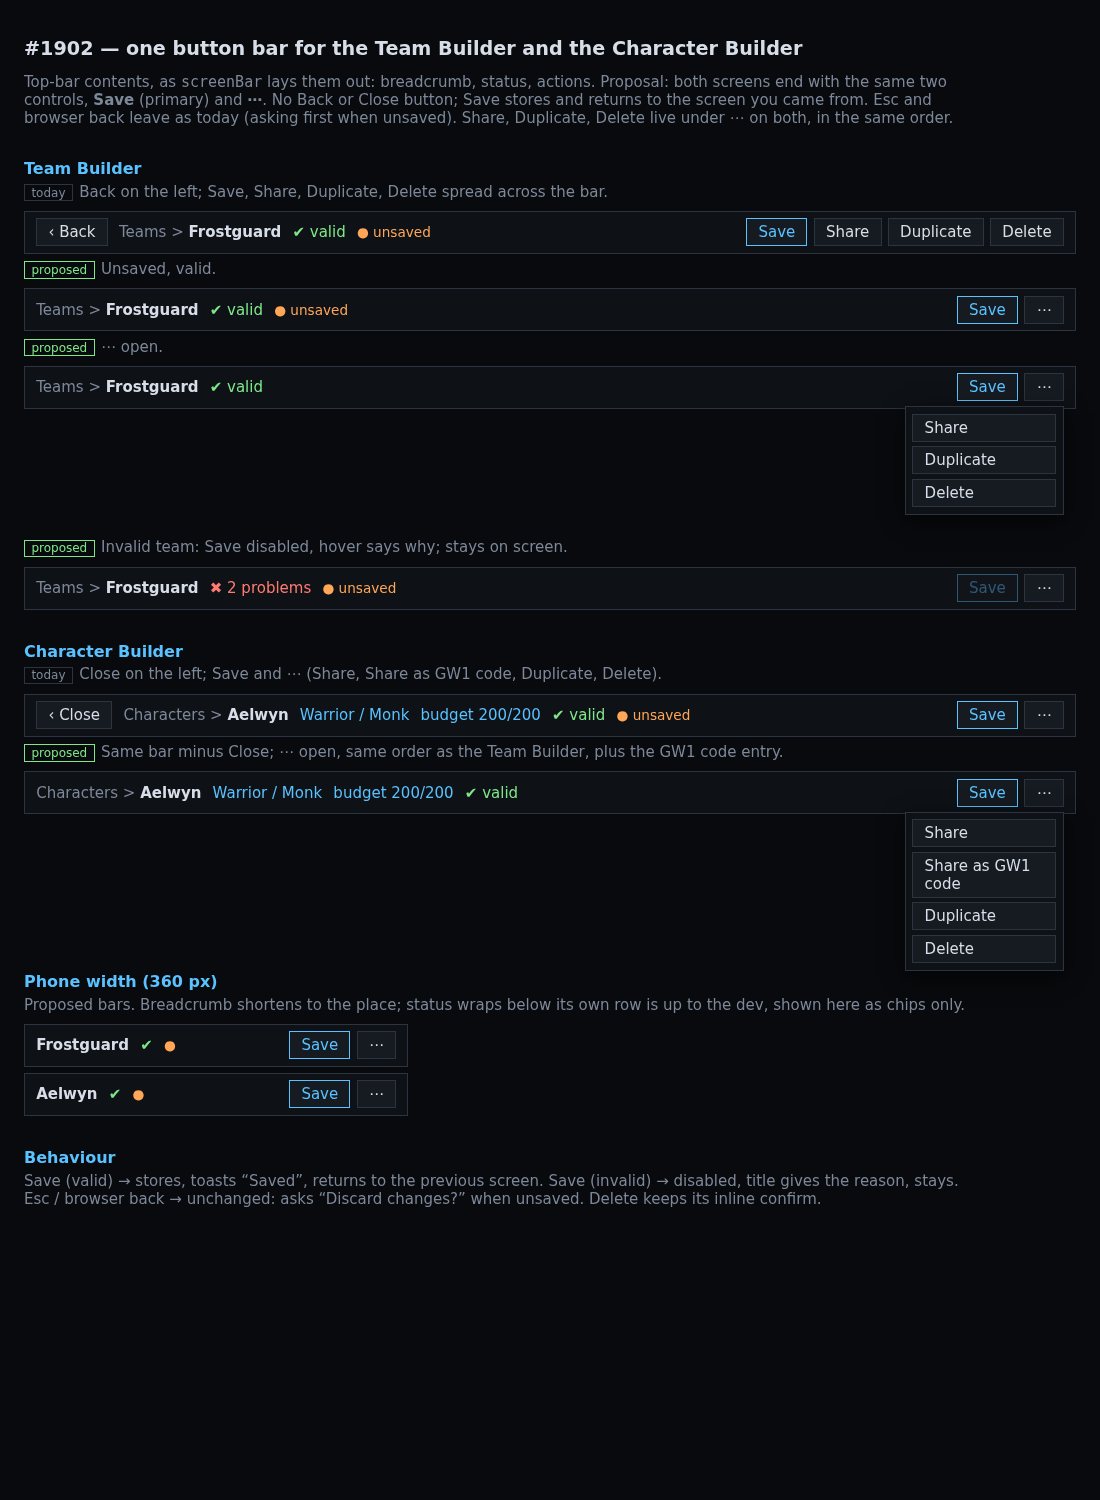
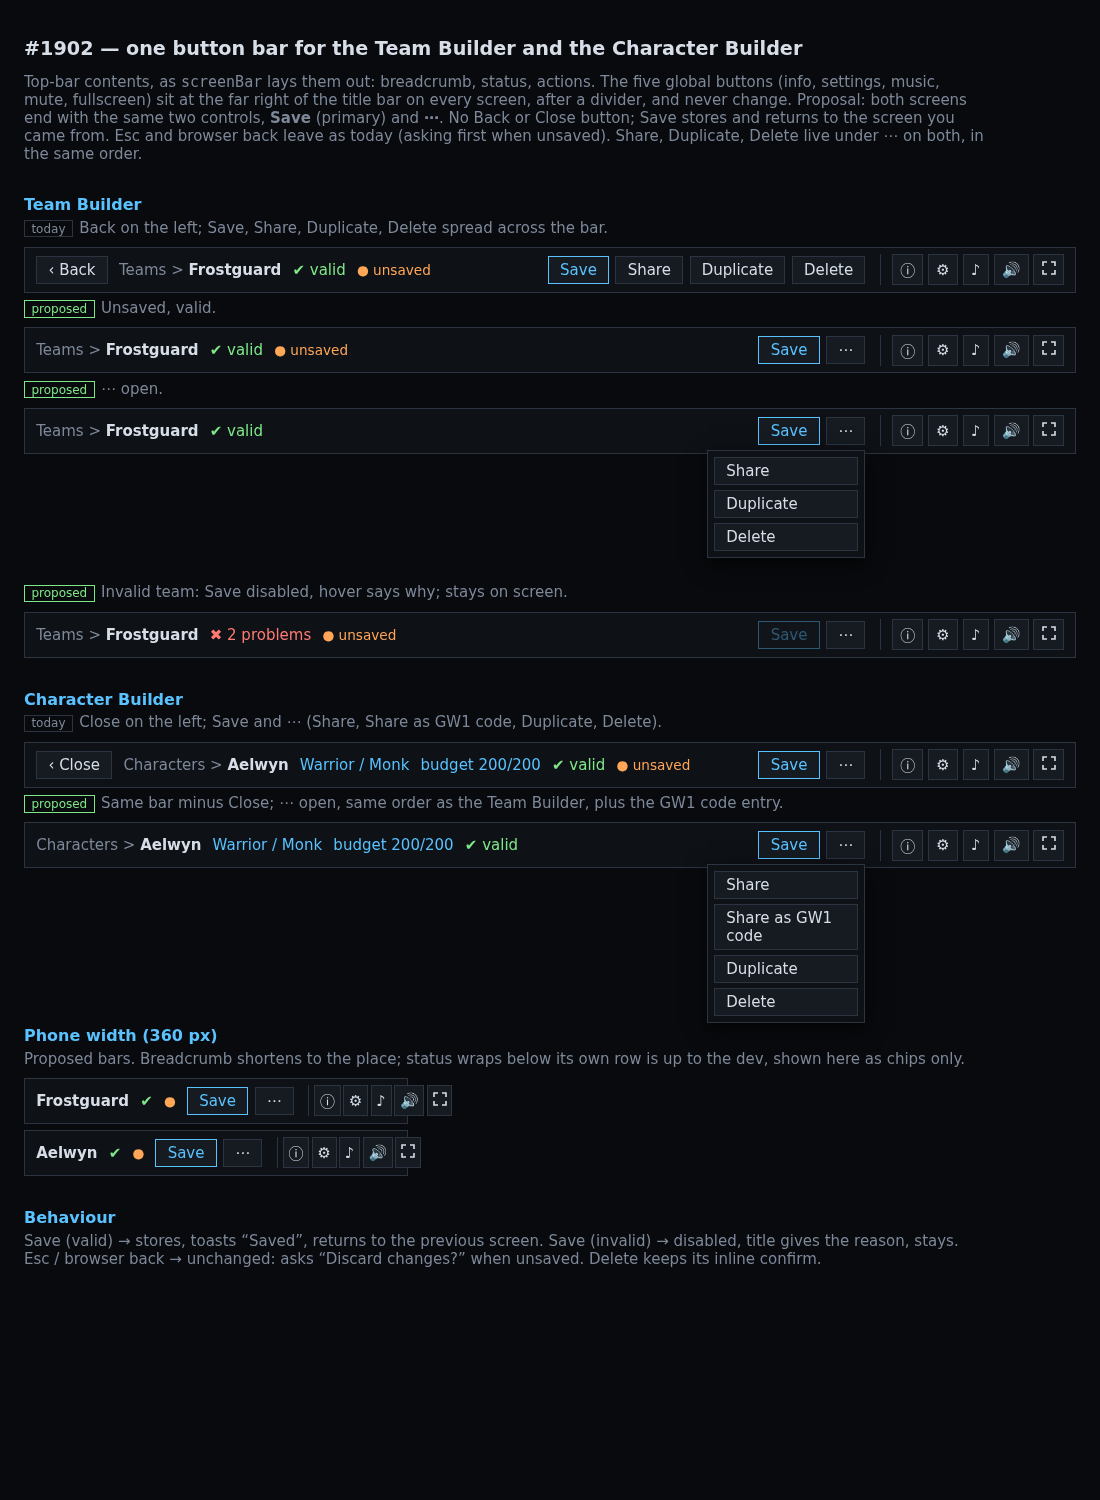
#1902: mockup adds the global info/settings/music/mute/fullscreen buttons

diff --git a/docs/mockups/1902-button-bars.html b/docs/mockups/1902-button-bars.html
@@ -138,13 +138,32 @@
     text-decoration: line-through;
     opacity: 0.55;
   }
+  .glob {
+    display: flex;
+    gap: 0.3rem;
+    padding-left: 0.7rem;
+    margin-left: 0.2rem;
+    border-left: 1px solid var(--line);
+  }
+  .glob button {
+    padding: 0.25rem 0.45rem;
+  }
+  .bar.phone .glob button {
+    padding: 0.25rem 0.3rem;
+  }
+  .bar.phone .glob {
+    gap: 0.15rem;
+    padding-left: 0.3rem;
+  }
 </style>
 <h1>#1902 — one button bar for the Team Builder and the Character Builder</h1>
 <p class="n">
-  Top-bar contents, as <code>screenBar</code> lays them out: breadcrumb, status, actions. Proposal:
-  both screens end with the same two controls, <b>Save</b> (primary) and <b>⋯</b>. No Back or Close
-  button; Save stores and returns to the screen you came from. Esc and browser back leave as today
-  (asking first when unsaved). Share, Duplicate, Delete live under ⋯ on both, in the same order.
+  Top-bar contents, as <code>screenBar</code> lays them out: breadcrumb, status, actions. The five
+  global buttons (info, settings, music, mute, fullscreen) sit at the far right of the title bar on
+  every screen, after a divider, and never change. Proposal: both screens end with the same two
+  controls, <b>Save</b> (primary) and <b>⋯</b>. No Back or Close button; Save stores and returns to
+  the screen you came from. Esc and browser back leave as today (asking first when unsaved). Share,
+  Duplicate, Delete live under ⋯ on both, in the same order.
 </p>
 
 <h2>Team Builder</h2>
@@ -159,12 +178,42 @@
     ><button class="primary">Save</button><button>Share</button><button>Duplicate</button
     ><button>Delete</button></span
   >
+  <span class="glob"
+    ><button aria-label="info">ⓘ</button><button aria-label="settings">⚙</button
+    ><button aria-label="music">♪</button><button aria-label="mute">🔊</button
+    ><button aria-label="fullscreen">
+      <svg
+        width="14"
+        height="14"
+        viewBox="0 0 14 14"
+        fill="none"
+        stroke="currentColor"
+        stroke-width="1.6"
+      >
+        <path d="M1 5V1h4M9 1h4v4M13 9v4H9M5 13H1V9" />
+      </svg></button
+  ></span>
 </div>
 <p class="n"><span class="tag new">proposed</span>Unsaved, valid.</p>
 <div class="bar">
   <span class="crumb">Teams &gt; <b>Frostguard</b></span>
   <span class="status"><span class="chip">✔ valid</span><span class="uns">● unsaved</span></span>
   <span class="act"><button class="primary">Save</button><button>⋯</button></span>
+  <span class="glob"
+    ><button aria-label="info">ⓘ</button><button aria-label="settings">⚙</button
+    ><button aria-label="music">♪</button><button aria-label="mute">🔊</button
+    ><button aria-label="fullscreen">
+      <svg
+        width="14"
+        height="14"
+        viewBox="0 0 14 14"
+        fill="none"
+        stroke="currentColor"
+        stroke-width="1.6"
+      >
+        <path d="M1 5V1h4M9 1h4v4M13 9v4H9M5 13H1V9" />
+      </svg></button
+  ></span>
 </div>
 <p class="n"><span class="tag new">proposed</span>⋯ open.</p>
 <div class="bar">
@@ -176,6 +225,21 @@
       ><button>Share</button><button>Duplicate</button><button>Delete</button></span
     ></span
   >
+  <span class="glob"
+    ><button aria-label="info">ⓘ</button><button aria-label="settings">⚙</button
+    ><button aria-label="music">♪</button><button aria-label="mute">🔊</button
+    ><button aria-label="fullscreen">
+      <svg
+        width="14"
+        height="14"
+        viewBox="0 0 14 14"
+        fill="none"
+        stroke="currentColor"
+        stroke-width="1.6"
+      >
+        <path d="M1 5V1h4M9 1h4v4M13 9v4H9M5 13H1V9" />
+      </svg></button
+  ></span>
 </div>
 <div class="pad"></div>
 <p class="n">
@@ -190,6 +254,21 @@
     ><button class="primary" disabled title="Two members share a name">Save</button
     ><button>⋯</button></span
   >
+  <span class="glob"
+    ><button aria-label="info">ⓘ</button><button aria-label="settings">⚙</button
+    ><button aria-label="music">♪</button><button aria-label="mute">🔊</button
+    ><button aria-label="fullscreen">
+      <svg
+        width="14"
+        height="14"
+        viewBox="0 0 14 14"
+        fill="none"
+        stroke="currentColor"
+        stroke-width="1.6"
+      >
+        <path d="M1 5V1h4M9 1h4v4M13 9v4H9M5 13H1V9" />
+      </svg></button
+  ></span>
 </div>
 
 <h2>Character Builder</h2>
@@ -204,6 +283,21 @@
     ><span class="chip">✔ valid</span><span class="uns">● unsaved</span></span
   >
   <span class="act"><button class="primary">Save</button><button>⋯</button></span>
+  <span class="glob"
+    ><button aria-label="info">ⓘ</button><button aria-label="settings">⚙</button
+    ><button aria-label="music">♪</button><button aria-label="mute">🔊</button
+    ><button aria-label="fullscreen">
+      <svg
+        width="14"
+        height="14"
+        viewBox="0 0 14 14"
+        fill="none"
+        stroke="currentColor"
+        stroke-width="1.6"
+      >
+        <path d="M1 5V1h4M9 1h4v4M13 9v4H9M5 13H1V9" />
+      </svg></button
+  ></span>
 </div>
 <p class="n">
   <span class="tag new">proposed</span>Same bar minus Close; ⋯ open, same order as the Team Builder,
@@ -222,6 +316,21 @@
       ><button>Delete</button></span
     ></span
   >
+  <span class="glob"
+    ><button aria-label="info">ⓘ</button><button aria-label="settings">⚙</button
+    ><button aria-label="music">♪</button><button aria-label="mute">🔊</button
+    ><button aria-label="fullscreen">
+      <svg
+        width="14"
+        height="14"
+        viewBox="0 0 14 14"
+        fill="none"
+        stroke="currentColor"
+        stroke-width="1.6"
+      >
+        <path d="M1 5V1h4M9 1h4v4M13 9v4H9M5 13H1V9" />
+      </svg></button
+  ></span>
 </div>
 <div class="pad"></div>
 
@@ -234,11 +343,41 @@
   <span class="crumb"><b>Frostguard</b></span
   ><span class="status"><span class="chip">✔</span><span class="uns">●</span></span>
   <span class="act"><button class="primary">Save</button><button>⋯</button></span>
+  <span class="glob"
+    ><button aria-label="info">ⓘ</button><button aria-label="settings">⚙</button
+    ><button aria-label="music">♪</button><button aria-label="mute">🔊</button
+    ><button aria-label="fullscreen">
+      <svg
+        width="14"
+        height="14"
+        viewBox="0 0 14 14"
+        fill="none"
+        stroke="currentColor"
+        stroke-width="1.6"
+      >
+        <path d="M1 5V1h4M9 1h4v4M13 9v4H9M5 13H1V9" />
+      </svg></button
+  ></span>
 </div>
 <div class="bar phone">
   <span class="crumb"><b>Aelwyn</b></span
   ><span class="status"><span class="chip">✔</span><span class="uns">●</span></span>
   <span class="act"><button class="primary">Save</button><button>⋯</button></span>
+  <span class="glob"
+    ><button aria-label="info">ⓘ</button><button aria-label="settings">⚙</button
+    ><button aria-label="music">♪</button><button aria-label="mute">🔊</button
+    ><button aria-label="fullscreen">
+      <svg
+        width="14"
+        height="14"
+        viewBox="0 0 14 14"
+        fill="none"
+        stroke="currentColor"
+        stroke-width="1.6"
+      >
+        <path d="M1 5V1h4M9 1h4v4M13 9v4H9M5 13H1V9" />
+      </svg></button
+  ></span>
 </div>
 
 <h2>Behaviour</h2>
